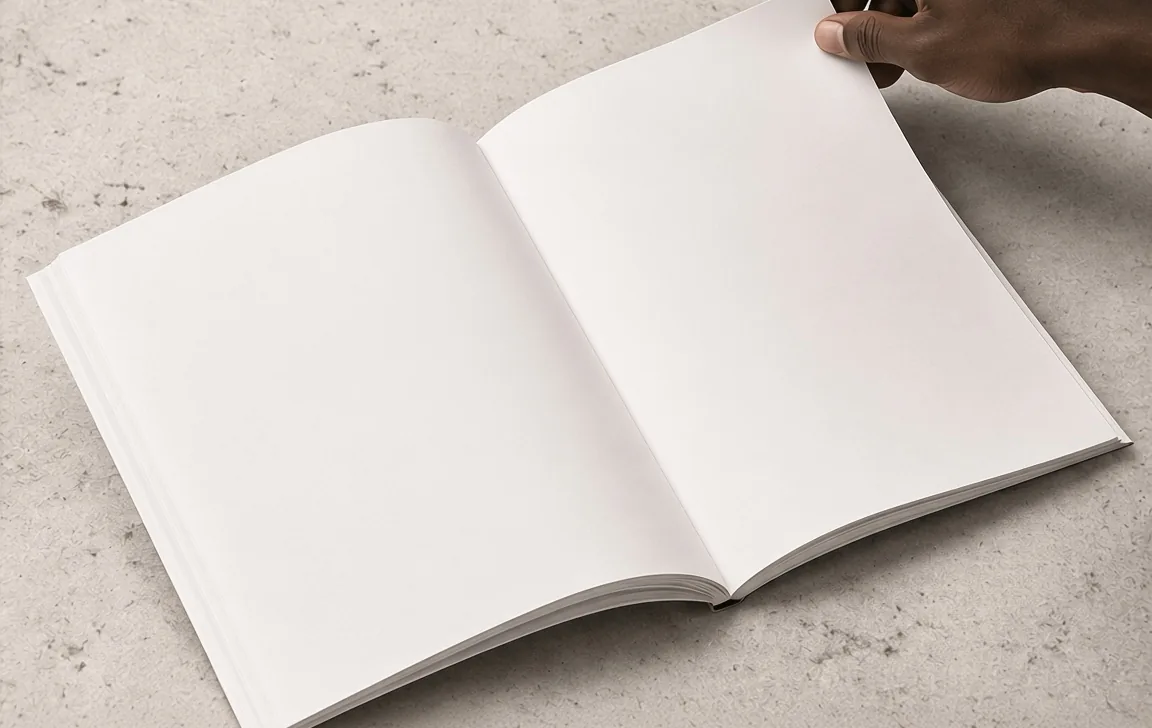
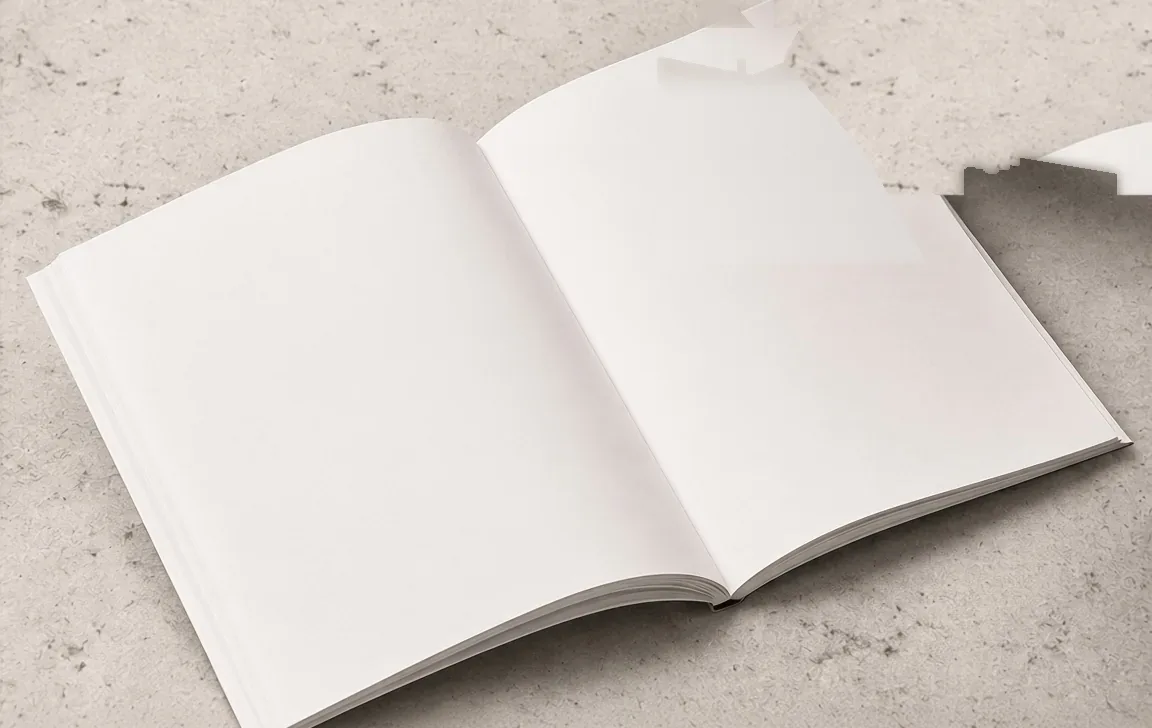
Move hero hand over the O in THEORY; retouch hand out of hero photo

Changed region(s): [[0.6875, 0.0, 1.0, 0.272], [0.625, 0.0, 0.6562, 0.0302]]

diff --git a/src/components/HeroBook.css b/src/components/HeroBook.css
@@ -27,13 +27,25 @@
   border: 0; border-top: 1px solid rgba(8, 8, 8, .55);
 }
 
-/* Hand pop-out layer. Geometry is in % of the hero box, derived from the source:
-   layer = source x 740–1152, y 0–132; the hero shows source y 72–800 (728 rows). */
+/* Hand pop-out layer. The hand is cut from the hero photo and sits over it
+   as a separate layer so it can rise above the book and overlap the
+   masthead. The hero photo itself has no hand in it (retouched out Nov 15,
+   2026), so this layer is the only hand and can be positioned freely.
+   Positioned so the fingers/thumb overlap the "O" in THEORY: desktop puts
+   the pinch on the O's lower-left; mobile re-aims it for the narrower
+   masthead. */
 .hero-wrap { position: relative; }
 .hero-book__hand {
   position: absolute; z-index: 5; pointer-events: none; user-select: none;
-  left: 64.236%;            /* 740 / 1152 */
+  left: 88.8%;              /* pinch on the O's lower-left (desktop) */
   width: 35.764%;           /* 412 / 1152 */
-  top: -9.890%;             /* -72 / 728 of the hero height (photo box) */
+  top: -22.8%;              /* fingers over the O's middle */
   height: auto;
+}
+
+@media (max-width: 640px) {
+  .hero-book__hand {
+    left: 72.1%;            /* pinch on the O's lower-left (mobile) */
+    top: -18.8%;
+  }
 }
